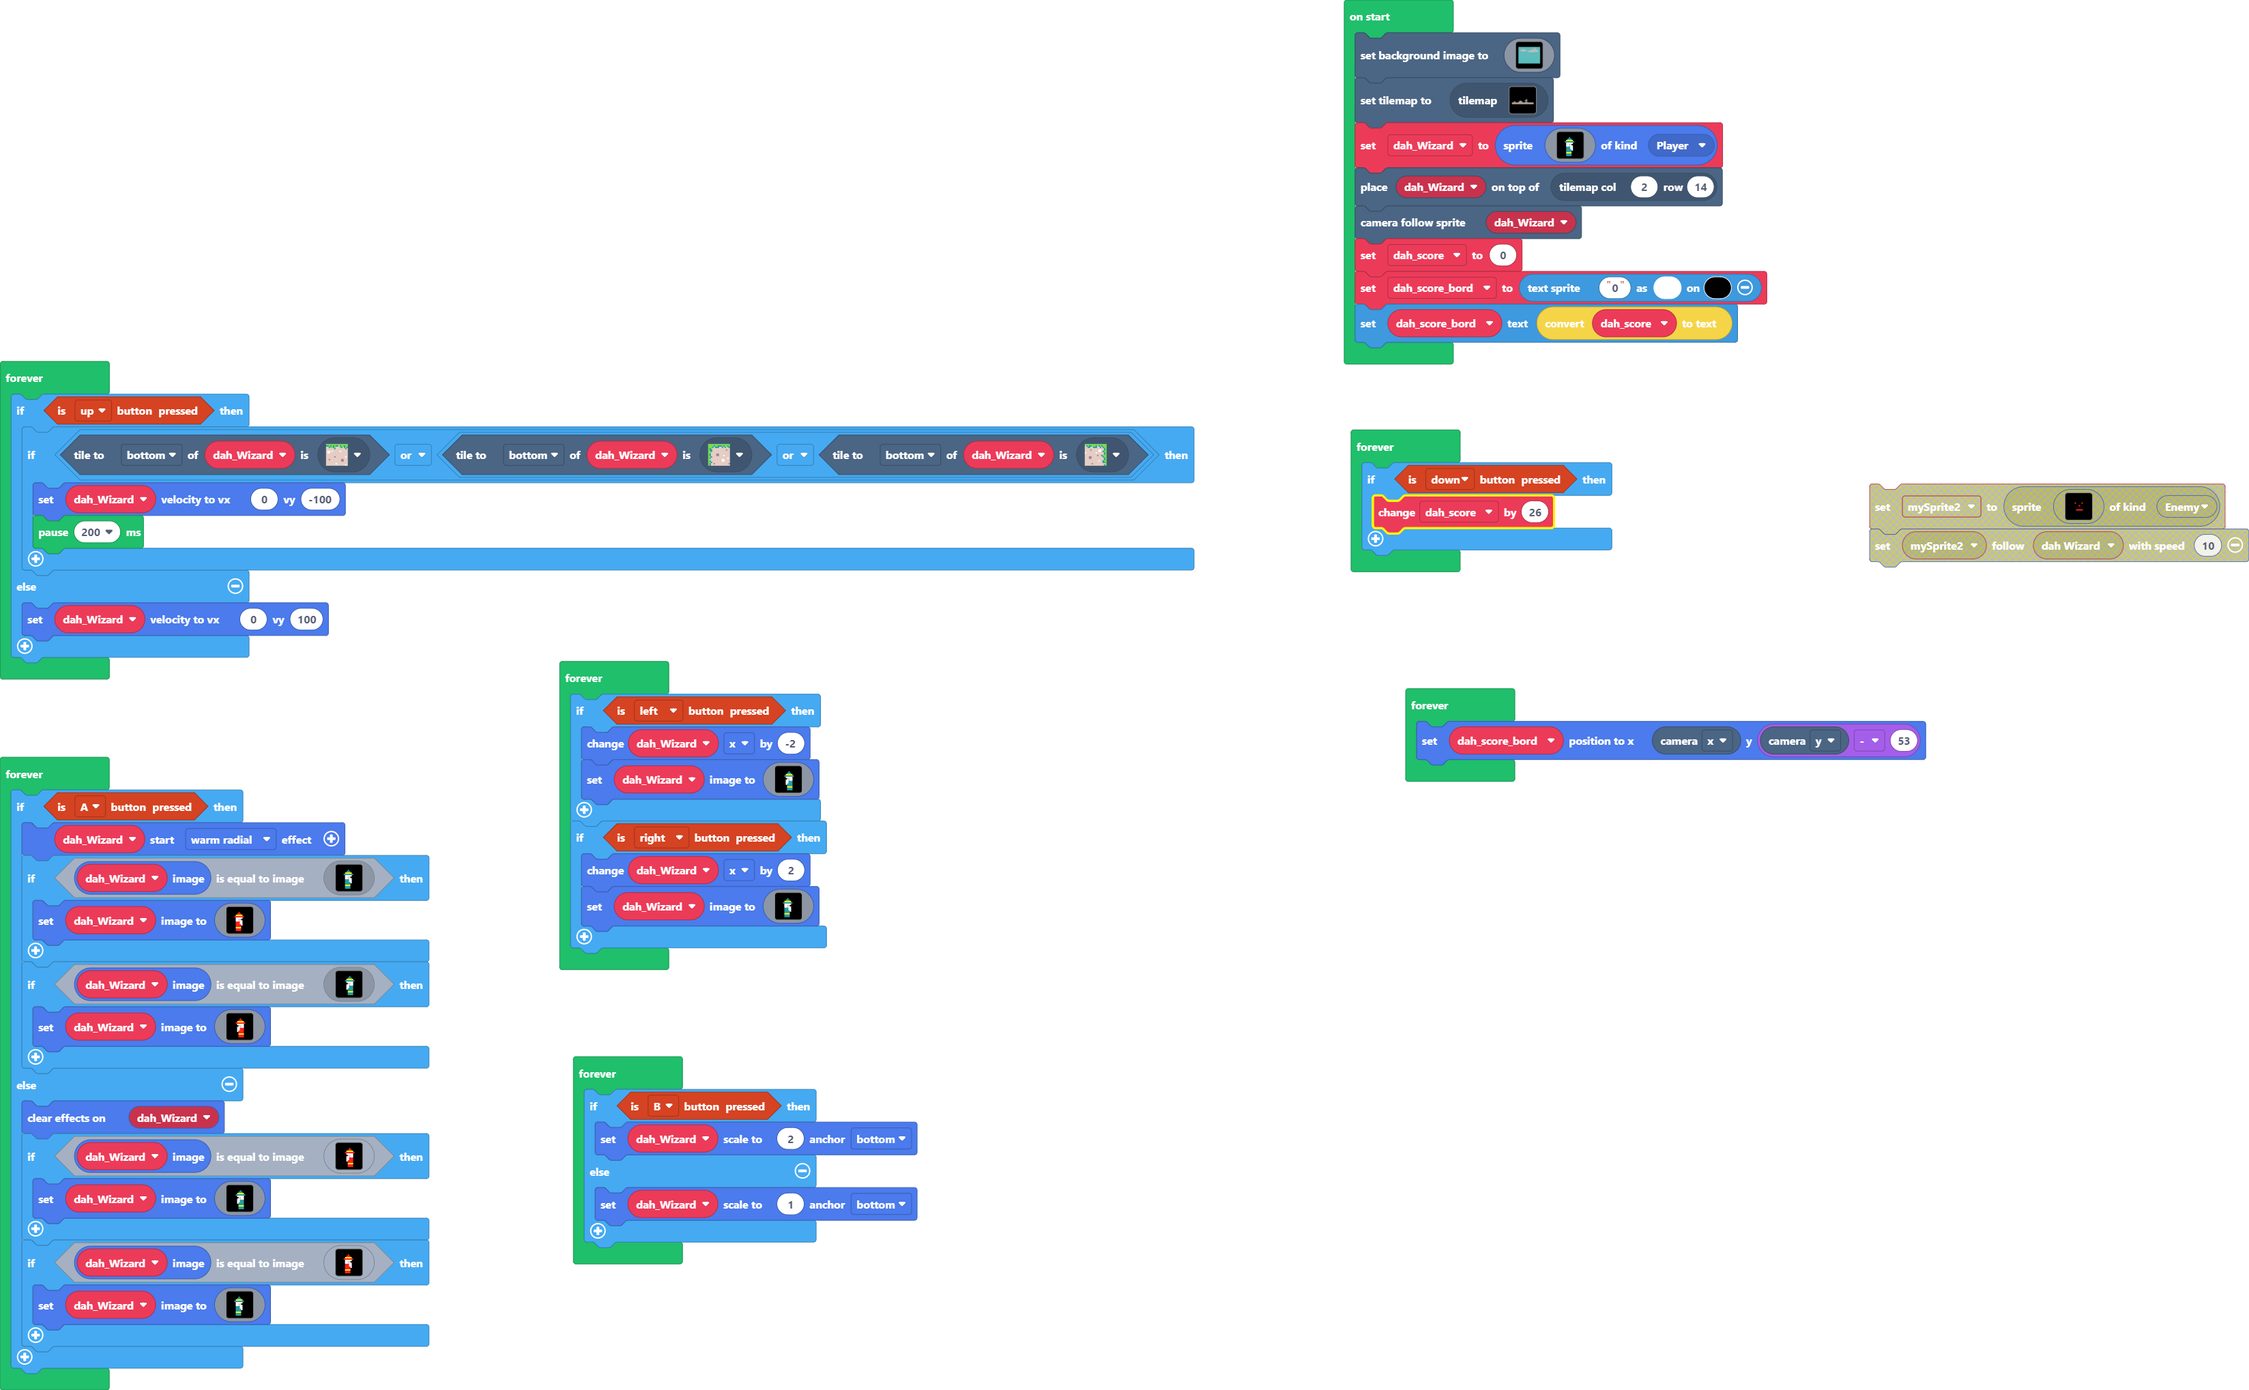
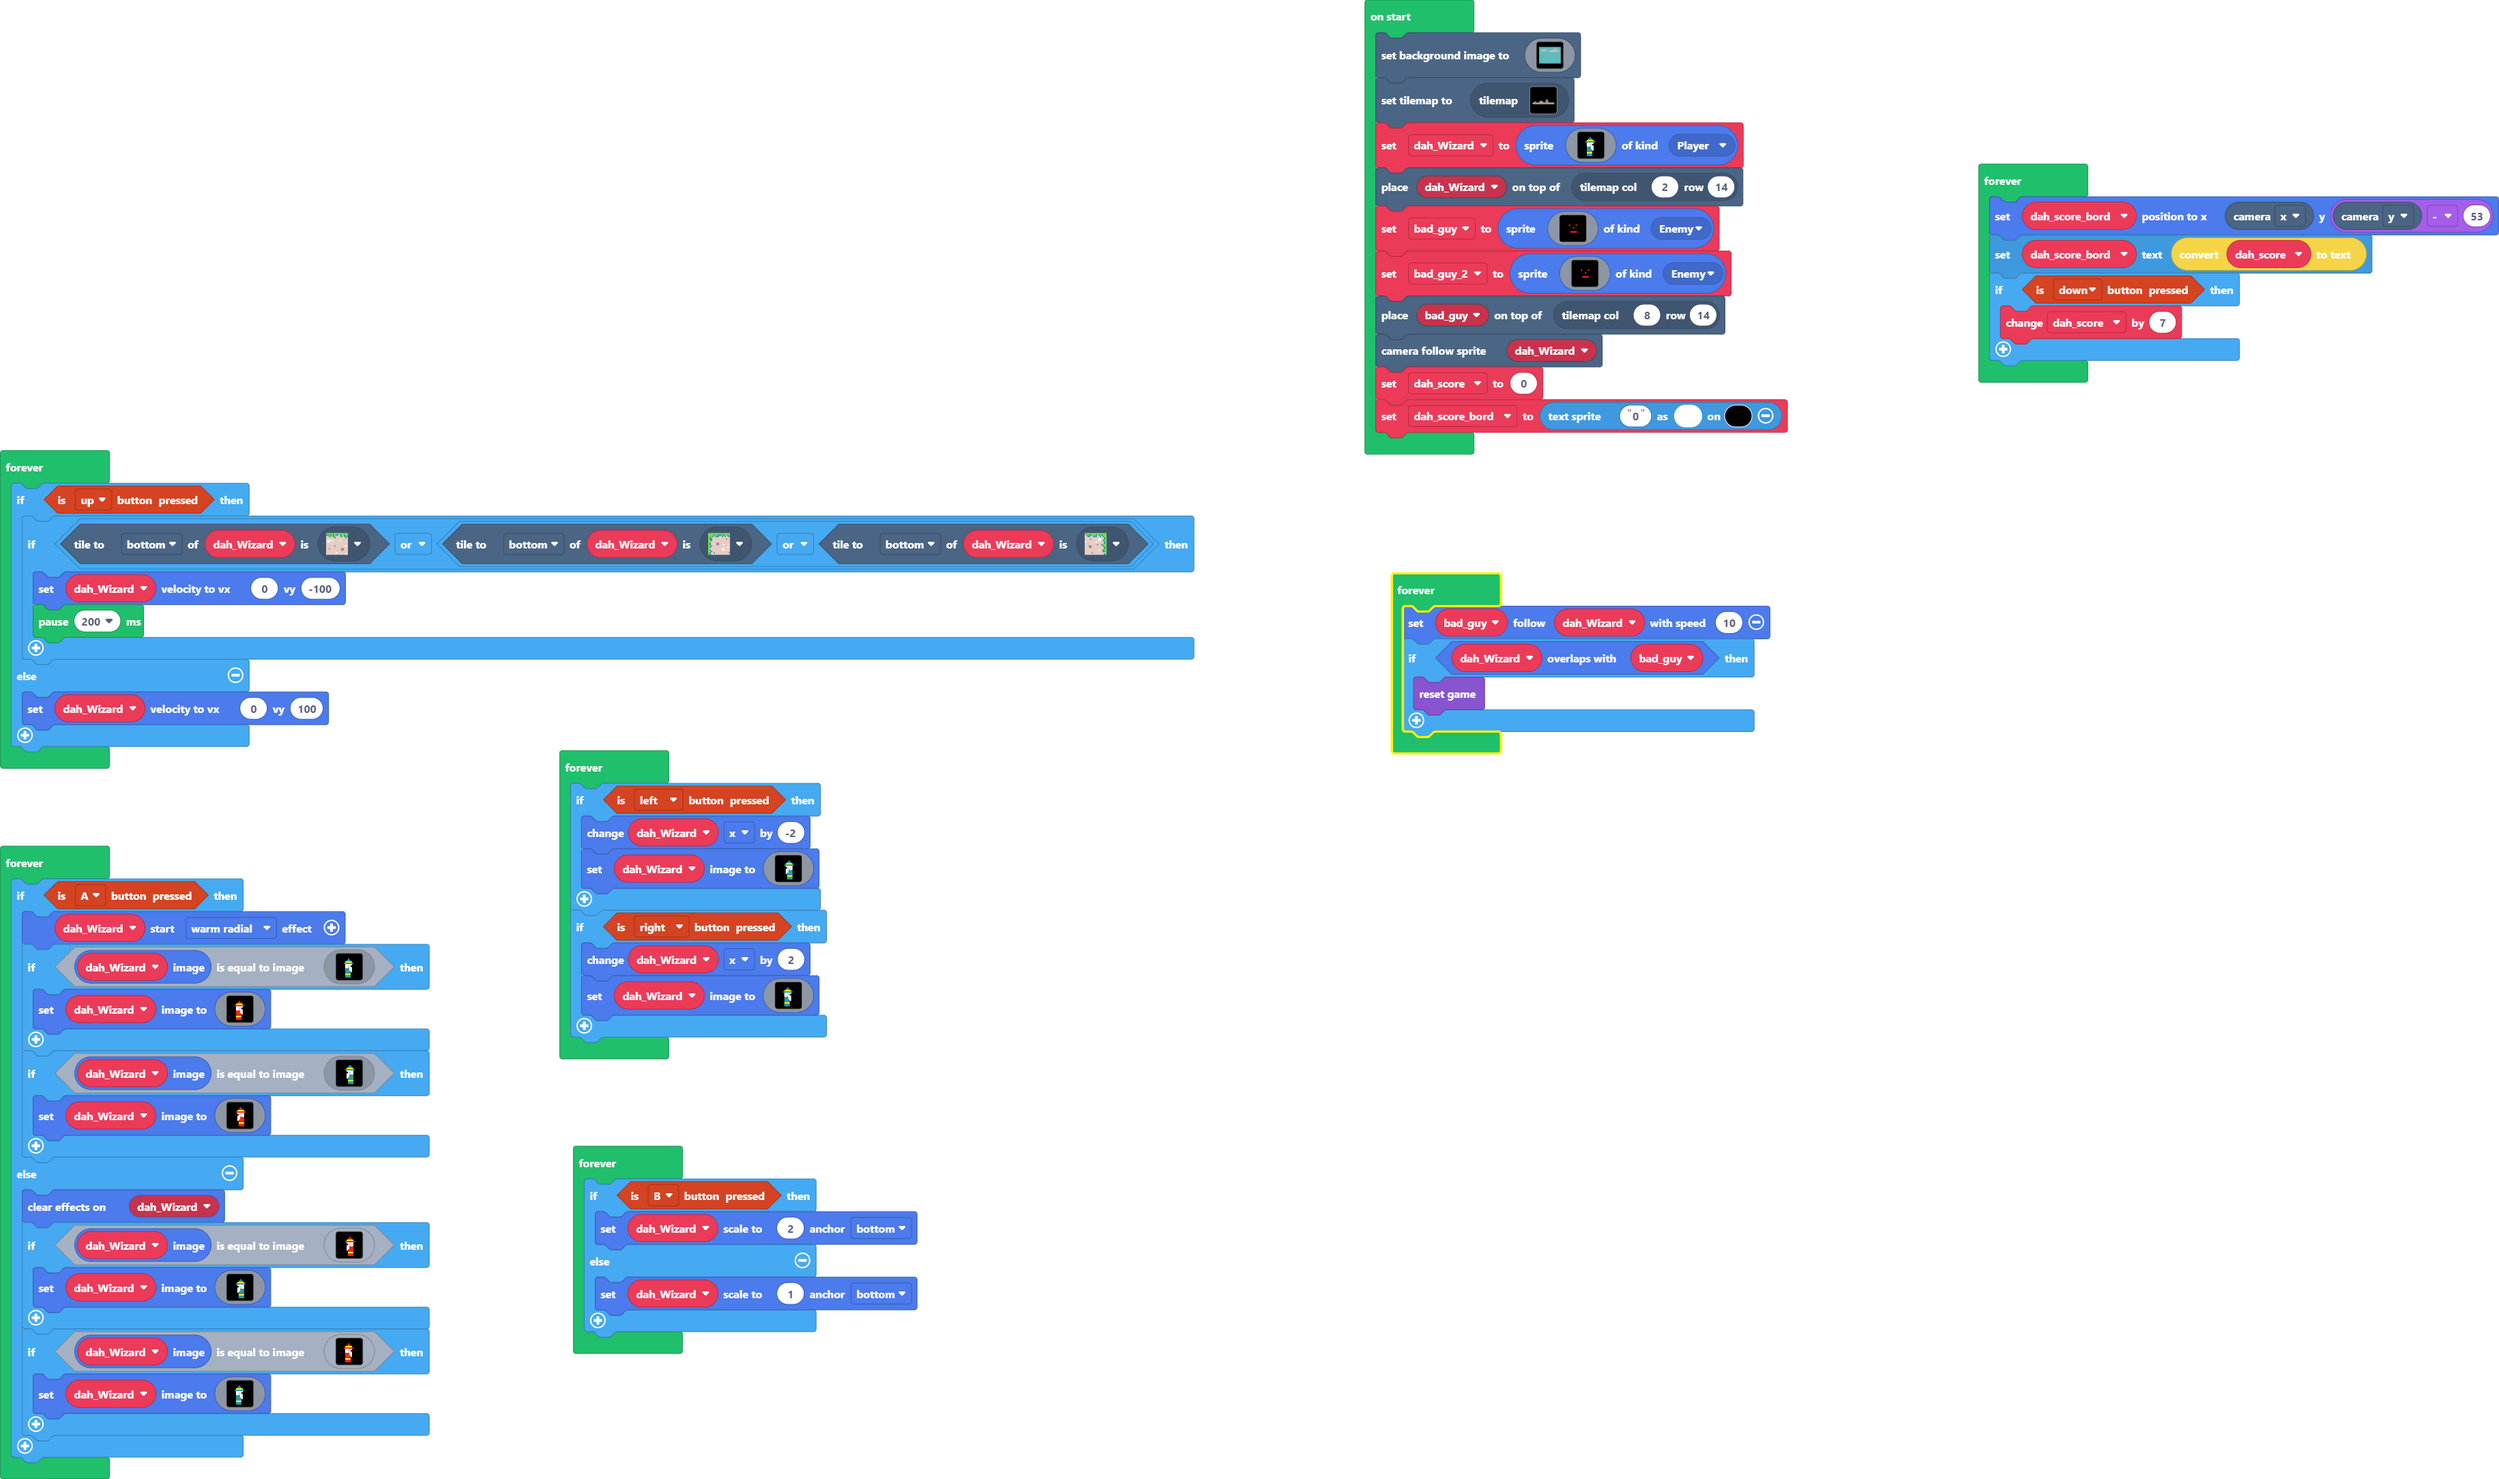
Update main.blocks, main.ts, tilemap.g.jres, tilemap.g.ts

Changed region(s): [[0.0, 0.0, 1.0, 1.0], [0.8125, 0.34, 1.0, 0.4019]]

diff --git a/tilemap.g.ts b/tilemap.g.ts
@@ -44,7 +44,7 @@ namespace myTiles {
 . . . . . . . . . . . . . . . . 
 `, [myTiles.transparency16], TileScale.Sixteen);
             case "level1":
[2 lines of base64/hex data omitted]
 ..................................................
 ..................................................
 ..................................................
@@ -59,8 +59,8 @@ namespace myTiles {
 ..............................22222...............
 ..................222.........22222...............
 .................222222...........................
-.....222........22222222.......2222...............
-....2222.......2222222222......22222..............
+.....222........22222222......222222..............
+....2222.......2222222222.....2222222.............
 22222222222222222222222222222222222222222222222222
 22222222222222222222222222222222222222222222222222
 22222222222222222222222222222222222222222222222222

diff --git a/main.ts b/main.ts
@@ -2,10 +2,19 @@ scene.setBackgroundImage(assets.image`sus sky`)
 tiles.setCurrentTilemap(tilemap`level1`)
 let dah_Wizard = sprites.create(assets.image`dah Wizard right`, SpriteKind.Player)
 tiles.placeOnTile(dah_Wizard, tiles.getTileLocation(2, 14))
+let bad_guy = sprites.create(assets.image`bad guy`, SpriteKind.Enemy)
+let bad_guy_2 = sprites.create(assets.image`bad guy`, SpriteKind.Enemy)
+tiles.placeOnTile(bad_guy, tiles.getTileLocation(8, 14))
 scene.cameraFollowSprite(dah_Wizard)
 let dah_score = 0
 let dah_score_bord = textsprite.create("0", 15, 1)
-dah_score_bord.setText(convertToText(dah_score))
+forever(function () {
+    dah_score_bord.setPosition(scene.cameraProperty(CameraProperty.X), scene.cameraProperty(CameraProperty.Y) - 53)
+    dah_score_bord.setText(convertToText(dah_score))
+    if (controller.down.isPressed()) {
+        dah_score += 7
+    }
+})
 forever(function () {
     if (controller.up.isPressed()) {
         if (dah_Wizard.tileKindAt(TileDirection.Bottom, sprites.castle.tilePath2) || (dah_Wizard.tileKindAt(TileDirection.Bottom, sprites.castle.tilePath1) || dah_Wizard.tileKindAt(TileDirection.Bottom, sprites.castle.tilePath3))) {
@@ -17,8 +26,9 @@ forever(function () {
     }
 })
 forever(function () {
-    if (controller.down.isPressed()) {
-        dah_score += 26
+    bad_guy.follow(dah_Wizard, 10)
+    if (dah_Wizard.overlapsWith(bad_guy)) {
+        game.reset()
     }
 })
 forever(function () {
@@ -49,9 +59,6 @@ forever(function () {
             dah_Wizard.setImage(assets.image`dah Wizard right`)
         }
     }
-})
-forever(function () {
-    dah_score_bord.setPosition(scene.cameraProperty(CameraProperty.X), scene.cameraProperty(CameraProperty.Y) - 53)
 })
 forever(function () {
     if (controller.B.isPressed()) {
